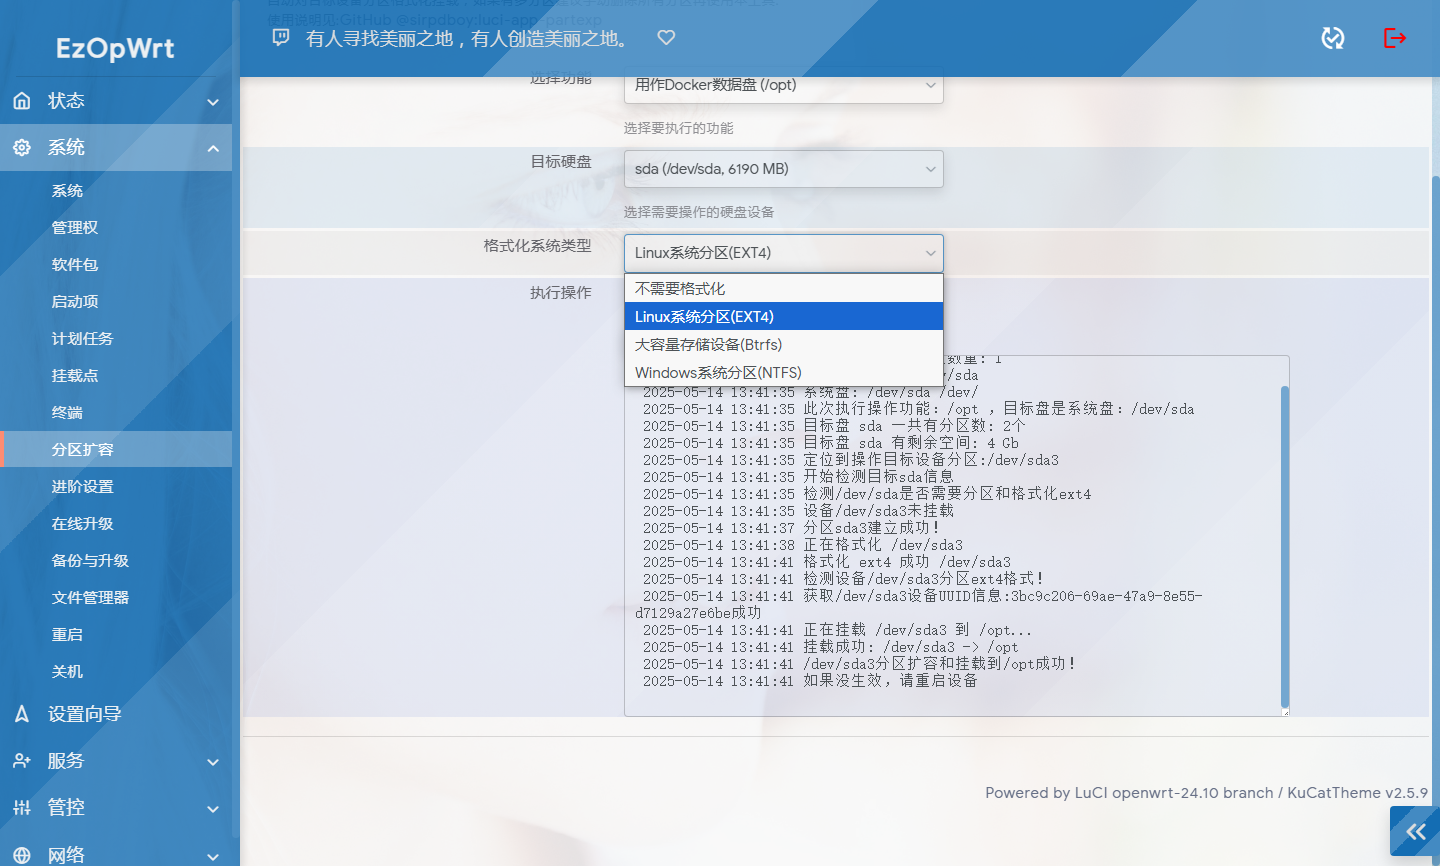
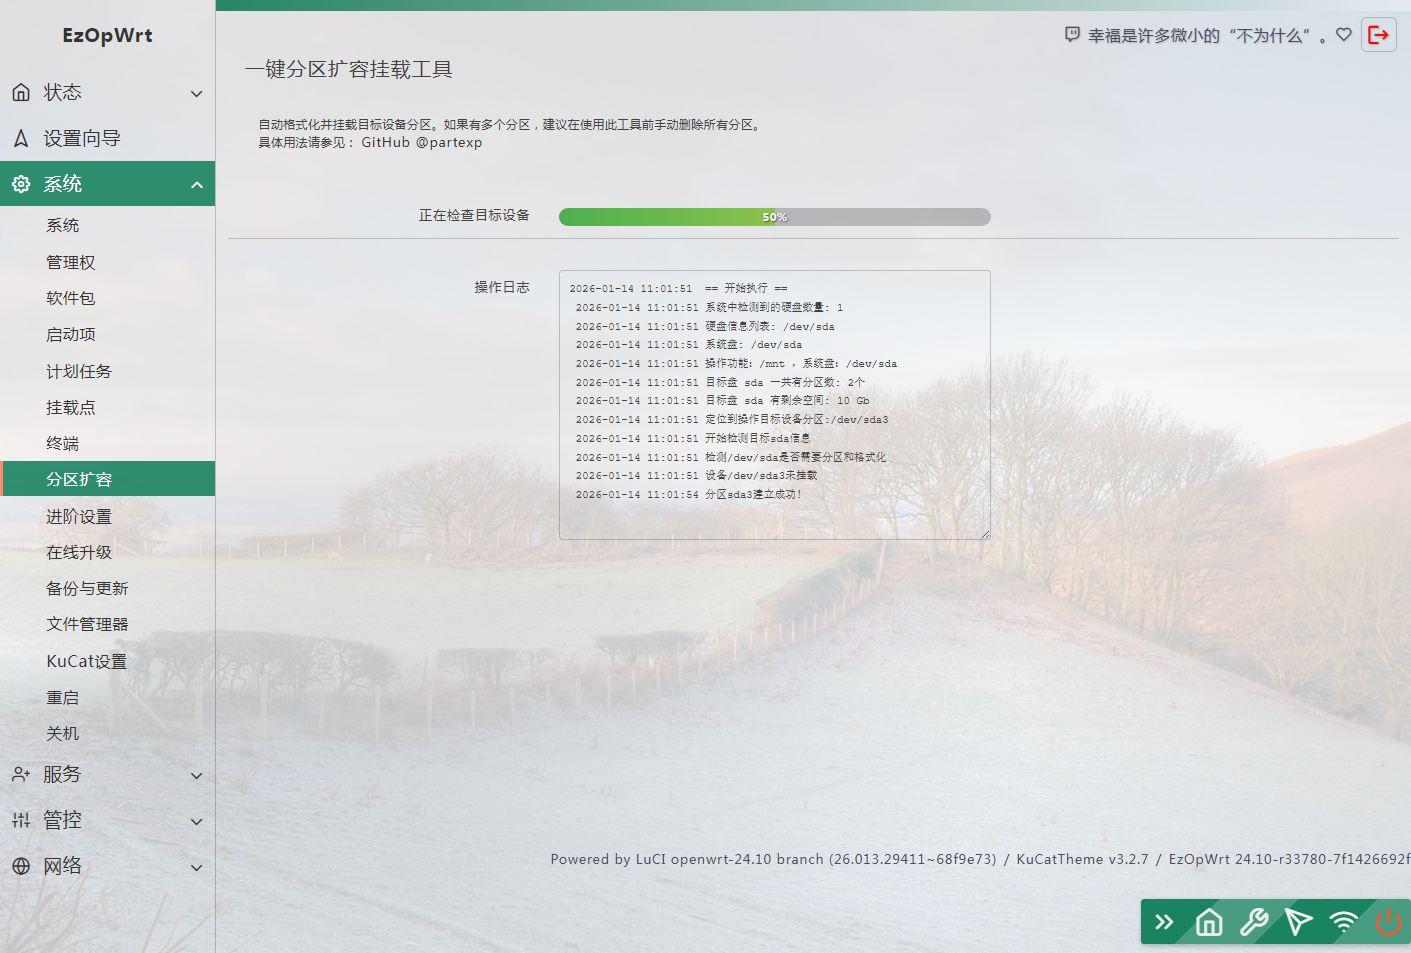
update 2026-01-14 11:42:33

diff --git a/luci-app-partexp/README.md b/luci-app-partexp/README.md
@@ -20,15 +20,23 @@ Please read this page carefully, which includes precautions and instructions on 
 
 #### One click automatic formatting of partitions, expansion, and automatic mounting of plugins, designed specifically for OPENWRT to simplify the tedious operation of partition mounting for OPENWRT. This plugin requires a lot of effort from Sirpdboy to create and test. Please do not delete the creator's information!!
 
-## Version
 
-- Latest update version number: V1.3.1
-- Update Date: March 26, 2025
-- Update content:
-- Reorganize the partition expansion code and address some unreasonable areas.
-- Add the format for the target partition, which can be specified as ext4, ntfs, Btrfs, or no format.
-- When used as a root directory/or/overlay, it will be formatted in ext4 format.
-- At present, the testing on X86 machines is completely normal, and it has not been tested on other routing devices. Please submit the hard disk partition status and error message if there are any issues.
+### Update Date: January 14, 2026
+
+- Latest updated version number: V2.0.2
+- Update:
+- The newly upgraded JavaScript version supports the OpenWRT 25.12 version.
+- Add a progress bar display function and support for more partition formats.
+- Add more detailed reporting on log partition status.
+- Currently, testing on X86 machines is completely normal, but it has not been tested on other routing devices. If there are any issues, please provide the hard disk partition details and error messages.
+ 
+### Update Date: March 26, 2025
+- Latest updated version number: V1.3.1
+- Update:
+- Reorganize the partition expansion code to address some unreasonable aspects.
+- Add the format option for the target partition, allowing users to specify formatting options such as ext4, NTFS, Btrfs, or no formatting.
+- When used as the root directory or as /overlay, the partition will be automatically formatted as ext4.
+- Currently, testing on X86 machines is completely normal, but it has not been tested on other routing devices. If there are any issues, please provide the hard disk partition information and error messages.
 
  
  
@@ -68,11 +76,13 @@ Luci app parexp automatically obtains formatted partition expansion and automati
 
 ## interface
 
-![screenshots](./doc/partexp0.png)
-
 ![screenshots](./doc/partexp1.png)
 
 ![screenshots](./doc/partexp2.png)
+
+![screenshots](./doc/partexp3.png)
+
+![screenshots](./doc/partexp4.png)
 
 
 # My other project

diff --git a/luci-app-partexp/README_CN.md b/luci-app-partexp/README_CN.md
@@ -15,14 +15,11 @@
 
 ![screenshots](https://raw.githubusercontent.com/sirpdboy/openwrt/master/doc/说明1.jpg)
 
-
 [luci-app-partexp](https://github.com/sirpdboy/luci-app-partexp) 一键自动格式化分区、扩容、自动挂载插件
-
 
 请 **认真阅读完毕** 本页面，本页面包含注意事项和如何使用。
 
 ## 功能说明：
-
 
 #### 一键自动格式化分区、扩容、自动挂载插件，专为OPENWRT设计，简化OPENWRT在分区挂载上烦锁的操作。本插件是sirpdboy耗费大量精力制作测试，请勿删除制作者信息！！
 
@@ -39,8 +36,17 @@
 
 ## 版本
 
+### 更新日期：2026年1月14日
+
+- 最新更新版本号： V2.0.2
+- 更新内容：
+- 全新升级js版，支持openwrt25.12版本 。
+- 增加进度条显示功能和更多的分区格式。
+- 增加更详细的日志分区情况汇报。
+- 目前在X86的机器上测试完全正常，其它路由设备上未测试。有问题请提交硬盘分区情况和错误提示。
+ 
+### 更新日期：2025年3月26日
 - 最新更新版本号： V1.3.1
-- 更新日期：2025年3月26日
 - 更新内容：
 - 重新整理分区扩容代码，解决一些不合理的地方。
 - 加入对目标分区的格式，可以指定格式化为ext4,ntfs和Btrfs以及不格式化。
@@ -89,13 +95,13 @@
 
 ![screenshots](./doc/partexp2.png)
 
+![screenshots](./doc/partexp3.png)
 
+![screenshots](./doc/partexp4.png)
 
 ## 使用与授权相关说明
  
 - 本人开源的所有源码，任何引用需注明本处出处，如需修改二次发布必告之本人，未经许可不得做于任何商用用途。
-
-
 
 
 # My other project
